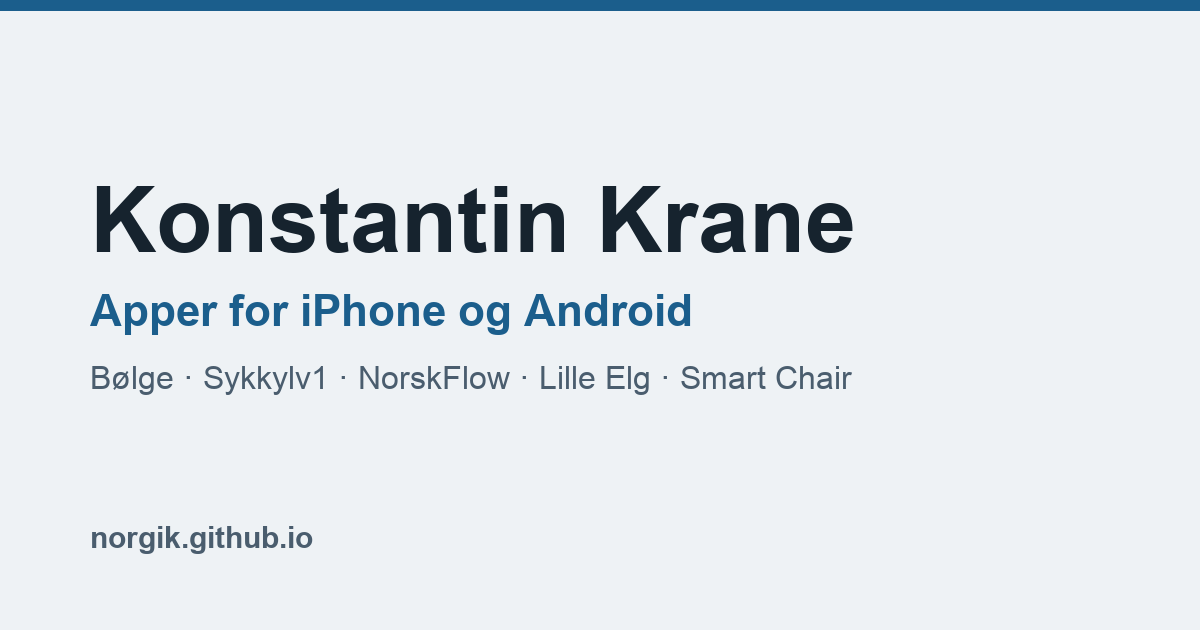
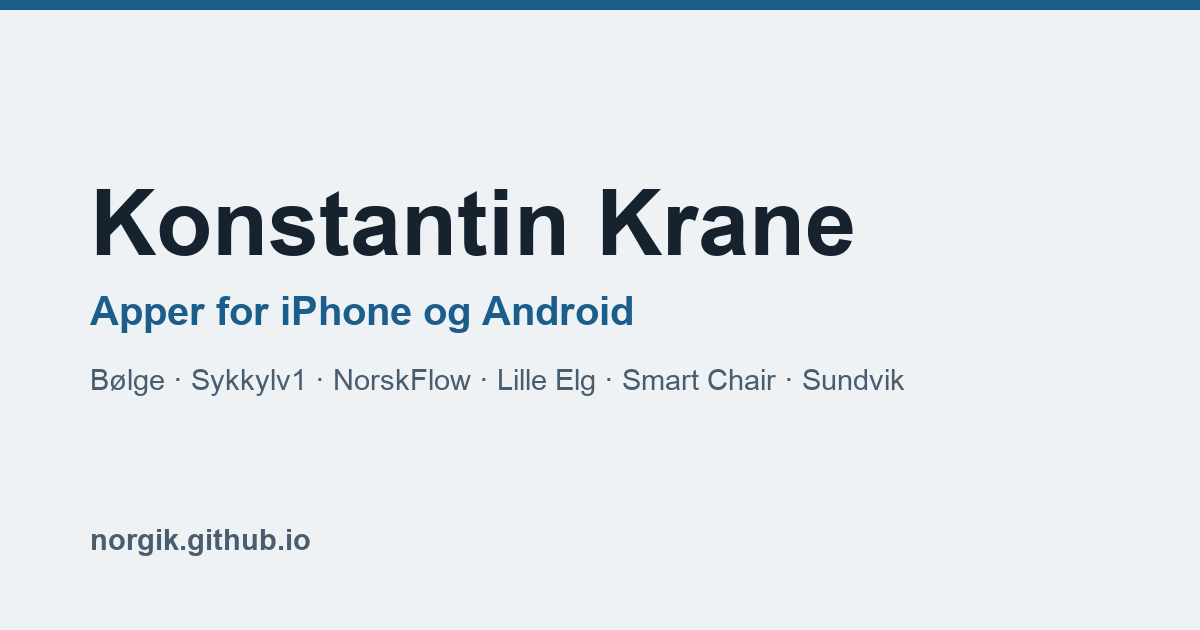
Show Sundvik Mysteries among the projects
- New page /sundvik/ in Norwegian: what the game is, the detectives, how it
  plays, the three cases, fair-puzzle checking and honest status. No links
  to the private repository and no code.
- Icon cut from Turbo's portrait, link preview card in the same style as
  the others, seven scenes from the game in a horizontal strip.
- Front page lists the game as the sixth project; its preview card and
  descriptions now say six projects.

Verified on a local server: desktop and 375 px width, no sideways scroll.

diff --git a/sundvik/index.html b/sundvik/index.html
@@ -1,0 +1,87 @@
+<!doctype html>
+<html lang="nb">
+<head>
+<meta charset="utf-8">
+<meta name="viewport" content="width=device-width, initial-scale=1">
+<link rel="preconnect" href="https://fonts.googleapis.com">
+<link rel="preconnect" href="https://fonts.gstatic.com" crossorigin>
+<link rel="stylesheet" href="https://fonts.googleapis.com/css2?family=Archivo:wght@500;600;700&family=Literata:opsz,wght@7..72,400;7..72,600&display=swap">
+<link rel="stylesheet" href="../style.css">
+<title>Sundvik Mysteries — detektivspill ved fjorden</title>
+<meta name="description" content="Sundvik Mysteries er et humoristisk detektivspill for iPhone fra en liten norsk fjordby. Du undersøker steder, avhører vitner, fanger løgner og setter sammen løsningen selv.">
+<meta property="og:type" content="website">
+<meta property="og:site_name" content="Konstantin Krane">
+<meta property="og:title" content="Sundvik Mysteries — detektivspill ved fjorden">
+<meta property="og:description" content="En gretten detektiv, den ivrige makkeren hans og hunden Turbo løser saker i en liten fjordby. Undersøk, avhør, fang løgnene og bevis hvem som gjorde det. Under utvikling.">
+<meta property="og:url" content="https://norgik.github.io/sundvik/">
+<meta property="og:image" content="https://norgik.github.io/assets/og/sundvik.png">
+<meta name="twitter:card" content="summary_large_image">
+</head>
+<body>
+<div class="sheet">
+  <header>
+    <img class="pageicon" src="../assets/icons/sundvik.png" alt="" width="80" height="80">
+    <p class="brandmark">iPhone · Under utvikling</p>
+    <h1>Sundvik Mysteries</h1>
+    <p class="meta"><span>Detektivspill med humor</span><span>Liggende format</span><span>Norsk, engelsk, tysk og russisk</span></p>
+  </header>
+
+  <div class="summary">
+    <p class="lead">Ingenting er som det ser ut i Sundvik.</p>
+    <p>Et humoristisk detektivspill fra en liten, oppdiktet fjordby. Du undersøker stedene, avhører vitnene, fanger dem i løgn og setter sammen løsningen selv — ingen gjør det for deg.</p>
+  </div>
+
+  <div class="shots wide">
+    <img src="../assets/sundvik/01.jpg" alt="Tittelbildet: Bjørn, Leif og Turbo på kaia" width="1200" height="553" loading="lazy">
+    <img src="../assets/sundvik/02.jpg" alt="Ferjekaia om kvelden" width="1200" height="800" loading="lazy">
+    <img src="../assets/sundvik/03.jpg" alt="Café Bølge etter stengetid" width="1200" height="800" loading="lazy">
+    <img src="../assets/sundvik/04.jpg" alt="Lobbyen på Hotel Fjordlys" width="1200" height="800" loading="lazy">
+    <img src="../assets/sundvik/05.jpg" alt="Rom nr. 7" width="1200" height="800" loading="lazy">
+    <img src="../assets/sundvik/06.jpg" alt="Fryserommet på kjølelageret" width="1200" height="800" loading="lazy">
+    <img src="../assets/sundvik/07.jpg" alt="Havna om natta" width="1200" height="800" loading="lazy">
+  </div>
+
+  <section>
+    <h2>Detektivene</h2>
+    <p>Bjørn er en gretten detektiv med notatbok som har sett alt før. Leif er den unge makkeren hans — lang, ivrig og nysgjerrig, med kamera rundt halsen. Og så er det Turbo, en bustete hund som ofte finner sporet før noen av dem.</p>
+  </section>
+
+  <section>
+    <h2>Slik spiller du</h2>
+    <ul>
+      <li>Undersøk steder og finn spor — hvert sted er tegnet spesielt for spillet</li>
+      <li>Avhør vitner; alt de sier havner i notatboka</li>
+      <li>Sett et utsagn opp mot et bevis som ikke stemmer, og løgnen sprekker</li>
+      <li>Prøv versjonene av hva som skjedde, og bevis til slutt hvem som gjorde det</li>
+      <li>Står du fast, hjelper Turbo — trinn for trinn, uten å røpe svaret med en gang</li>
+    </ul>
+  </section>
+
+  <section>
+    <h2>Sakene</h2>
+    <ul>
+      <li><strong>Siste ferje</strong> — den siste ferja la til i rute, bilen står igjen på kaia, men eieren er borte. Fem steder.</li>
+      <li><strong>Rom nr. 7</strong> — en hotellgjest kom aldri ut av rommet sitt, men noen bestilte frokost derfra klokka ti over sju. Ni steder.</li>
+      <li><strong>Kjølelageret</strong> — alarmen gikk på et gammelt kjølelager, ingenting var borte, og saken ble ført som falsk alarm. Tretten steder.</li>
+    </ul>
+    <p>Sakene henger sammen: små detaljer fra én sak dukker opp i den neste. Nye saker kommer som oppdateringer i det samme spillet.</p>
+  </section>
+
+  <section>
+    <h2>Rettferdige gåter</h2>
+    <p>Hver sak skal kunne løses ved å tenke, ikke ved å gjette. Før en sak kommer med i spillet, blir den kontrollert automatisk: hver løgn må kunne avsløres med et spor spilleren faktisk kan finne, tidslinjen må gå opp, og når alle bevisene er samlet, skal det bare finnes én løsning.</p>
+  </section>
+
+  <section>
+    <h2>Status</h2>
+    <p>De tre første sakene kan spilles fra start til slutt på iPhone, med tegnet grafikk og stemmer på fire språk. Spillet er ennå ikke lagt ut i App Store, og navnet er et arbeidsnavn. Jeg står for historiene, spilldesignet, grafikkarbeidet, stemmene og programmeringen.</p>
+    <p class="note">Teknisk: Swift, SwiftUI, saker beskrevet som data, automatisk kontroll av løsningene, og grafikk og stemmer laget med AI-verktøy.</p>
+  </section>
+
+  <footer>
+    <p class="nav"><a href="../">← Alle apper</a></p>
+    <p class="who">Konstantin Krane · <a href="mailto:norgik@hotmail.com">norgik@hotmail.com</a></p>
+  </footer>
+</div>
+</body>
+</html>

diff --git a/index.html b/index.html
@@ -8,11 +8,11 @@
 <link rel="stylesheet" href="https://fonts.googleapis.com/css2?family=Archivo:wght@500;600;700&family=Literata:opsz,wght@7..72,400;7..72,600&display=swap">
 <link rel="stylesheet" href="style.css">
 <title>Konstantin Krane — apper for iPhone og Android</title>
-<meta name="description" content="Apper laget av Konstantin Krane i Sykkylven: Bølge, Sykkylv1, NorskFlow, Lille Elg og Smart Chair Control.">
+<meta name="description" content="Apper laget av Konstantin Krane i Sykkylven: Bølge, Sykkylv1, NorskFlow, Lille Elg, Smart Chair Control og Sundvik Mysteries.">
 <meta property="og:type" content="website">
 <meta property="og:site_name" content="Konstantin Krane">
 <meta property="og:title" content="Konstantin Krane — apper for iPhone og Android">
-<meta property="og:description" content="Fem prosjekter: radio med direkteteksting, innbyggerapp for Sykkylven, språklæring for voksne og barn, og styring av motoriserte stoler.">
+<meta property="og:description" content="Seks prosjekter: radio med direkteteksting, innbyggerapp for Sykkylven, språklæring for voksne og barn, styring av motoriserte stoler og et detektivspill.">
 <meta property="og:url" content="https://norgik.github.io/">
 <meta property="og:image" content="https://norgik.github.io/assets/og/index.png">
 <meta name="twitter:card" content="summary_large_image">
@@ -73,6 +73,14 @@
         <span class="apptitle">Smart Chair Control</span>
         <span class="badge">Prototype</span>
         <p>Trådløs styring av motoriserte hvilestoler over Bluetooth Low Energy, med lagrede sittestillinger, kalibrering og nødstopp.</p>
+      </span>
+    </a>
+    <a class="app" href="sundvik/">
+      <img src="assets/icons/sundvik.png" alt="Sundvik Mysteries" width="64" height="64">
+      <span class="appbody">
+        <span class="apptitle">Sundvik Mysteries</span>
+        <span class="badge">Under utvikling</span>
+        <p>Humoristisk detektivspill fra en liten fjordby. Undersøk stedene, avhør vitnene, fang løgnene og bevis selv hvem som gjorde det — med hunden Turbo på lag.</p>
       </span>
     </a>
   </div>

diff --git a/style.css b/style.css
@@ -58,6 +58,7 @@ ul { padding-left: 1.15rem; display: flex; flex-direction: column; gap: .4rem; }
 .shots { display: flex; gap: .9rem; overflow-x: auto; padding-bottom: .6rem; margin: 0; scroll-snap-type: x mandatory; }
 .shots img { width: 15rem; aspect-ratio: 1206 / 2622; object-fit: cover; background: var(--panel);
   flex: 0 0 auto; border-radius: .9rem; border: 1px solid var(--rule); scroll-snap-align: start; }
+.shots.wide img { width: auto; height: 13rem; aspect-ratio: auto; border-radius: .6rem; }
 .linkrow { display: flex; flex-wrap: wrap; gap: .6rem 1.4rem; font-family: "Archivo", sans-serif; font-size: .92rem; font-weight: 500; }
 .note { font-size: .92rem; color: var(--ink-soft); }
 a { color: var(--accent); text-decoration-thickness: 1px; text-underline-offset: .15em; }

diff --git a/README.md b/README.md
@@ -9,6 +9,7 @@ Prosjektsider for appene mine, publisert med GitHub Pages: <https://norgik.githu
 | NorskFlow | Under utvikling | [/norskflow/](https://norgik.github.io/norskflow/) |
 | Lille Elg | Under utvikling | [/lille-elg/](https://norgik.github.io/lille-elg/) |
 | Smart Chair Control | Prototype | [/smart-chair/](https://norgik.github.io/smart-chair/) |
+| Sundvik Mysteries | Under utvikling | [/sundvik/](https://norgik.github.io/sundvik/) |
 
 Personvern- og supportsidene ligger fortsatt i sine egne repoer
 (`sykkylv1-legal`, `atlas-radio-legal`), fordi lenkene til dem er registrert
